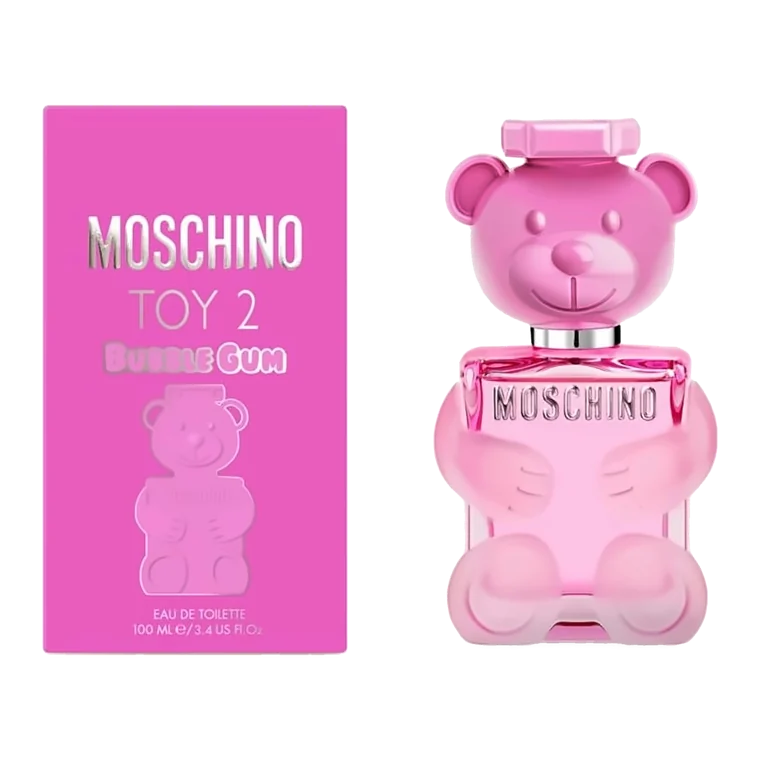
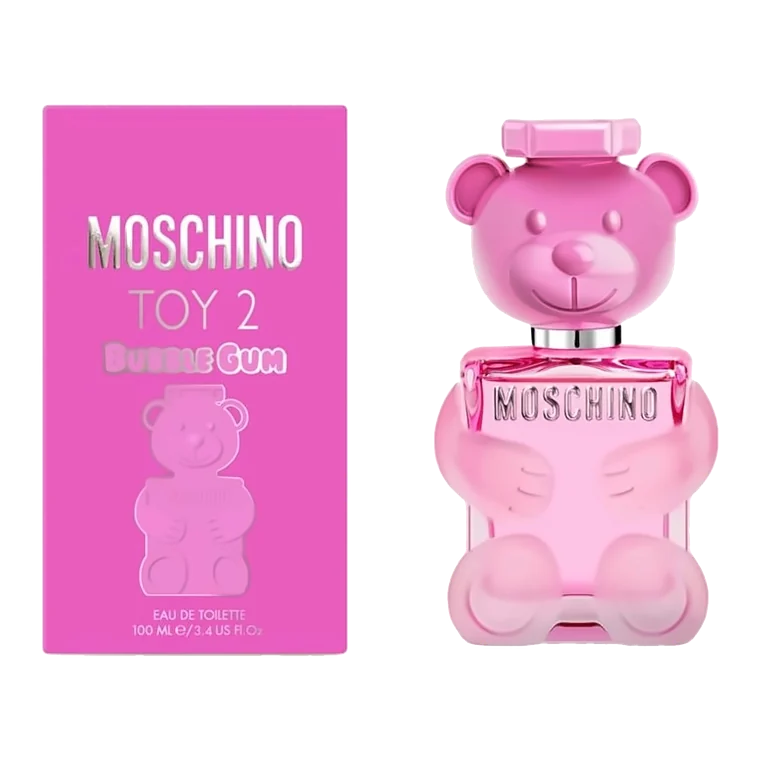
Carrusel v3: recortes sin sombras de foto, bordes limpios

diff --git a/index.html b/index.html
@@ -584,7 +584,7 @@ footer::before{content:"";position:absolute;left:-60px;bottom:-40px;width:320px;
 <div class="mbar" id="mbar" hidden><div class="mb-i"><span class="mb-n" id="mbN"></span><span class="mb-t" id="mbT"></span></div><button class="mb-btn" id="mbOpen">Ver mi pedido</button></div>
 
 <script>
-const IMGV="6";const iv=u=>(u&&u.startsWith("/")&&!u.includes("?"))?u+"?v="+IMGV:u;
+const IMGV="7";const iv=u=>(u&&u.startsWith("/")&&!u.includes("?"))?u+"?v="+IMGV:u;
 const CONFIG={campaign:{active:true,name:"Cyber Day",maxOff:60},messages:["Perfumes 100% originales","Envíos a todo el Perú","Paga con Yape, Plin o tarjeta"]};
 /* ---------- datos ---------- */
 const SEED = {products:[]};
